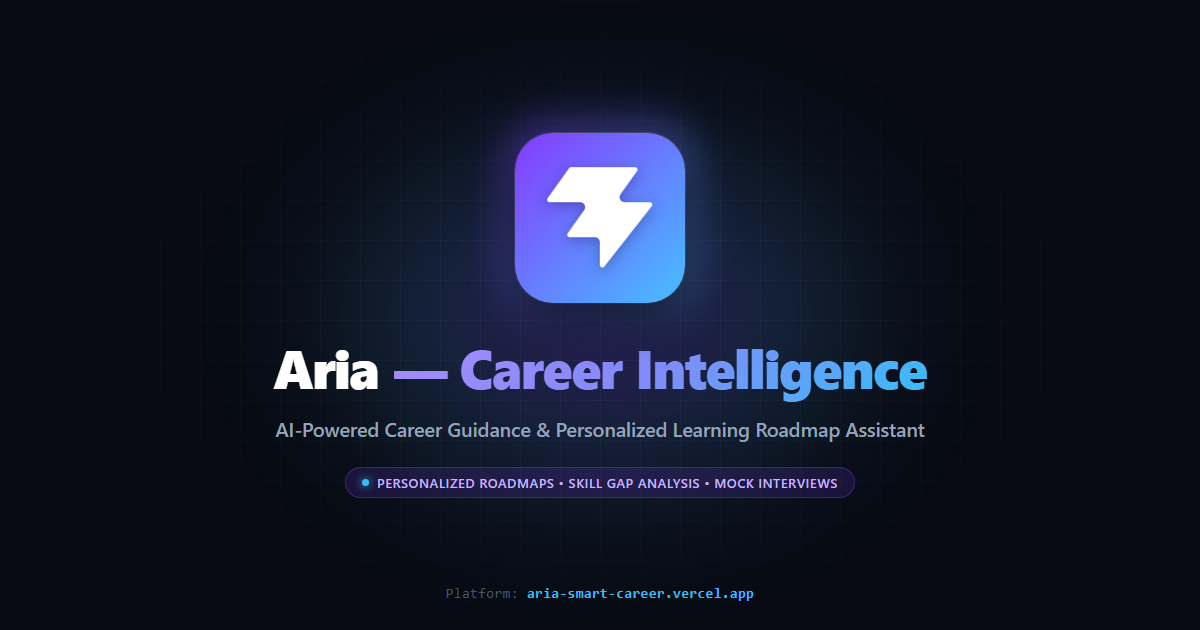
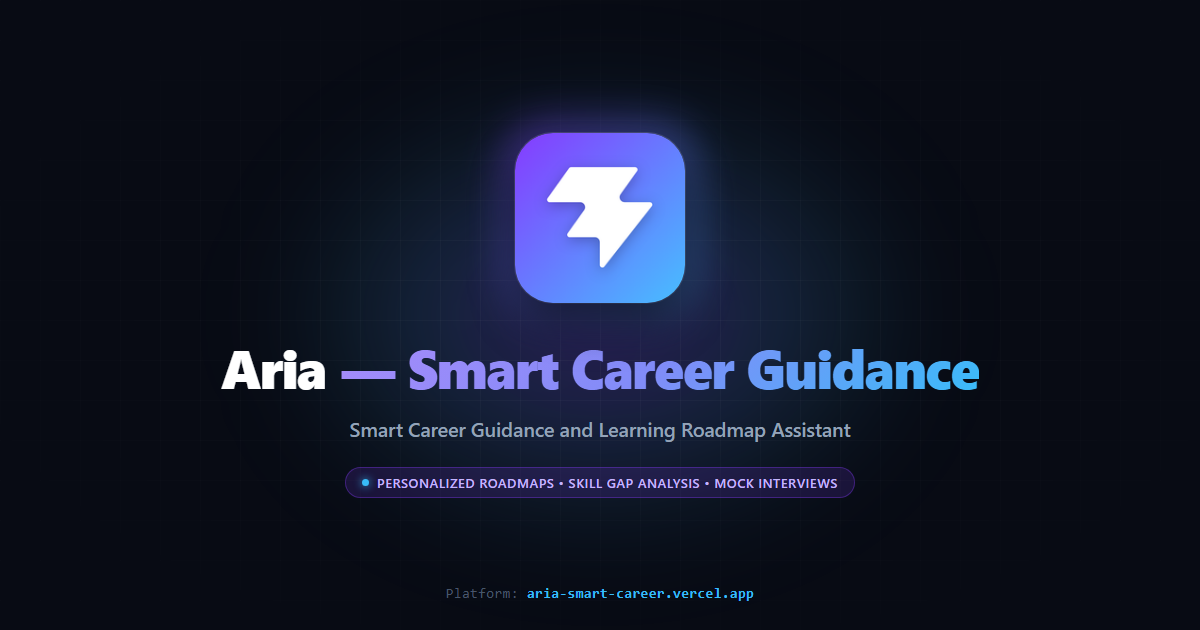
feat: update social preview headline to Aria-Smart Career Guidance and Learning Roadmap Assistant

Changed region(s): [[0.185, 0.5429, 0.8325, 0.6333], [0.2158, 0.6635, 0.7708, 0.6937]]

diff --git a/backend/public/index.html b/backend/public/index.html
@@ -13,8 +13,8 @@
     <meta name="viewport" content="width=device-width, initial-scale=1.0" />
 
     <!-- Primary Meta Tags -->
-    <title>Aria — AI-Powered Career Guidance & Learning Roadmap Assistant</title>
-    <meta name="title" content="Aria — AI-Powered Career Guidance & Learning Roadmap Assistant" />
+    <title>Aria-Smart Career Guidance and Learning Roadmap Assistant</title>
+    <meta name="title" content="Aria-Smart Career Guidance and Learning Roadmap Assistant" />
     <meta name="description" content="Aria uses advanced AI to analyze your skills, generate personalized learning roadmaps, prepare you for interviews, and guide your career journey — from zero to your dream role." />
     <meta name="keywords" content="AI career guidance, learning roadmap, skill gap analysis, interview preparation, career assistant, AI learning, career development" />
     <meta name="author" content="Aria" />
@@ -24,22 +24,22 @@
     <meta property="og:type" content="website" />
     <meta property="og:url" content="https://aria-smart-career.vercel.app/" />
     <meta property="og:site_name" content="Aria" />
-    <meta property="og:title" content="Aria — AI-Powered Career Guidance & Learning Roadmap Assistant" />
+    <meta property="og:title" content="Aria-Smart Career Guidance and Learning Roadmap Assistant" />
     <meta property="og:description" content="Analyze your skills, uncover gaps, and generate customized step-by-step learning roadmaps with AI." />
     <meta property="og:image" content="https://aria-smart-career.vercel.app/og-image.png" />
     <meta property="og:image:secure_url" content="https://aria-smart-career.vercel.app/og-image.png" />
     <meta property="og:image:type" content="image/png" />
     <meta property="og:image:width" content="1200" />
     <meta property="og:image:height" content="630" />
-    <meta property="og:image:alt" content="Aria — AI-Powered Career Guidance & Learning Roadmap Assistant" />
+    <meta property="og:image:alt" content="Aria-Smart Career Guidance and Learning Roadmap Assistant" />
 
     <!-- Twitter / X -->
     <meta name="twitter:card" content="summary_large_image" />
     <meta name="twitter:url" content="https://aria-smart-career.vercel.app/" />
-    <meta name="twitter:title" content="Aria — AI-Powered Career Guidance & Learning Roadmap Assistant" />
+    <meta name="twitter:title" content="Aria-Smart Career Guidance and Learning Roadmap Assistant" />
     <meta name="twitter:description" content="Analyze your skills, uncover gaps, and generate customized step-by-step learning roadmaps with AI." />
     <meta name="twitter:image" content="https://aria-smart-career.vercel.app/og-image.png" />
-    <meta name="twitter:image:alt" content="Aria — AI-Powered Career Guidance & Learning Roadmap Assistant" />
+    <meta name="twitter:image:alt" content="Aria-Smart Career Guidance and Learning Roadmap Assistant" />
 
     <!-- Preconnect to Google Fonts for performance -->
     <link rel="preconnect" href="https://fonts.googleapis.com" />

diff --git a/frontend/index.html b/frontend/index.html
@@ -13,8 +13,8 @@
     <meta name="viewport" content="width=device-width, initial-scale=1.0" />
 
     <!-- Primary Meta Tags -->
-    <title>Aria — AI-Powered Career Guidance & Learning Roadmap Assistant</title>
-    <meta name="title" content="Aria — AI-Powered Career Guidance & Learning Roadmap Assistant" />
+    <title>Aria-Smart Career Guidance and Learning Roadmap Assistant</title>
+    <meta name="title" content="Aria-Smart Career Guidance and Learning Roadmap Assistant" />
     <meta name="description" content="Aria uses advanced AI to analyze your skills, generate personalized learning roadmaps, prepare you for interviews, and guide your career journey — from zero to your dream role." />
     <meta name="keywords" content="AI career guidance, learning roadmap, skill gap analysis, interview preparation, career assistant, AI learning, career development" />
     <meta name="author" content="Aria" />
@@ -24,22 +24,22 @@
     <meta property="og:type" content="website" />
     <meta property="og:url" content="https://aria-smart-career.vercel.app/" />
     <meta property="og:site_name" content="Aria" />
-    <meta property="og:title" content="Aria — AI-Powered Career Guidance & Learning Roadmap Assistant" />
+    <meta property="og:title" content="Aria-Smart Career Guidance and Learning Roadmap Assistant" />
     <meta property="og:description" content="Analyze your skills, uncover gaps, and generate customized step-by-step learning roadmaps with AI." />
     <meta property="og:image" content="https://aria-smart-career.vercel.app/og-image.png" />
     <meta property="og:image:secure_url" content="https://aria-smart-career.vercel.app/og-image.png" />
     <meta property="og:image:type" content="image/png" />
     <meta property="og:image:width" content="1200" />
     <meta property="og:image:height" content="630" />
-    <meta property="og:image:alt" content="Aria — AI-Powered Career Guidance & Learning Roadmap Assistant" />
+    <meta property="og:image:alt" content="Aria-Smart Career Guidance and Learning Roadmap Assistant" />
 
     <!-- Twitter / X -->
     <meta name="twitter:card" content="summary_large_image" />
     <meta name="twitter:url" content="https://aria-smart-career.vercel.app/" />
-    <meta name="twitter:title" content="Aria — AI-Powered Career Guidance & Learning Roadmap Assistant" />
+    <meta name="twitter:title" content="Aria-Smart Career Guidance and Learning Roadmap Assistant" />
     <meta name="twitter:description" content="Analyze your skills, uncover gaps, and generate customized step-by-step learning roadmaps with AI." />
     <meta name="twitter:image" content="https://aria-smart-career.vercel.app/og-image.png" />
-    <meta name="twitter:image:alt" content="Aria — AI-Powered Career Guidance & Learning Roadmap Assistant" />
+    <meta name="twitter:image:alt" content="Aria-Smart Career Guidance and Learning Roadmap Assistant" />
 
     <!-- Preconnect to Google Fonts for performance -->
     <link rel="preconnect" href="https://fonts.googleapis.com" />
